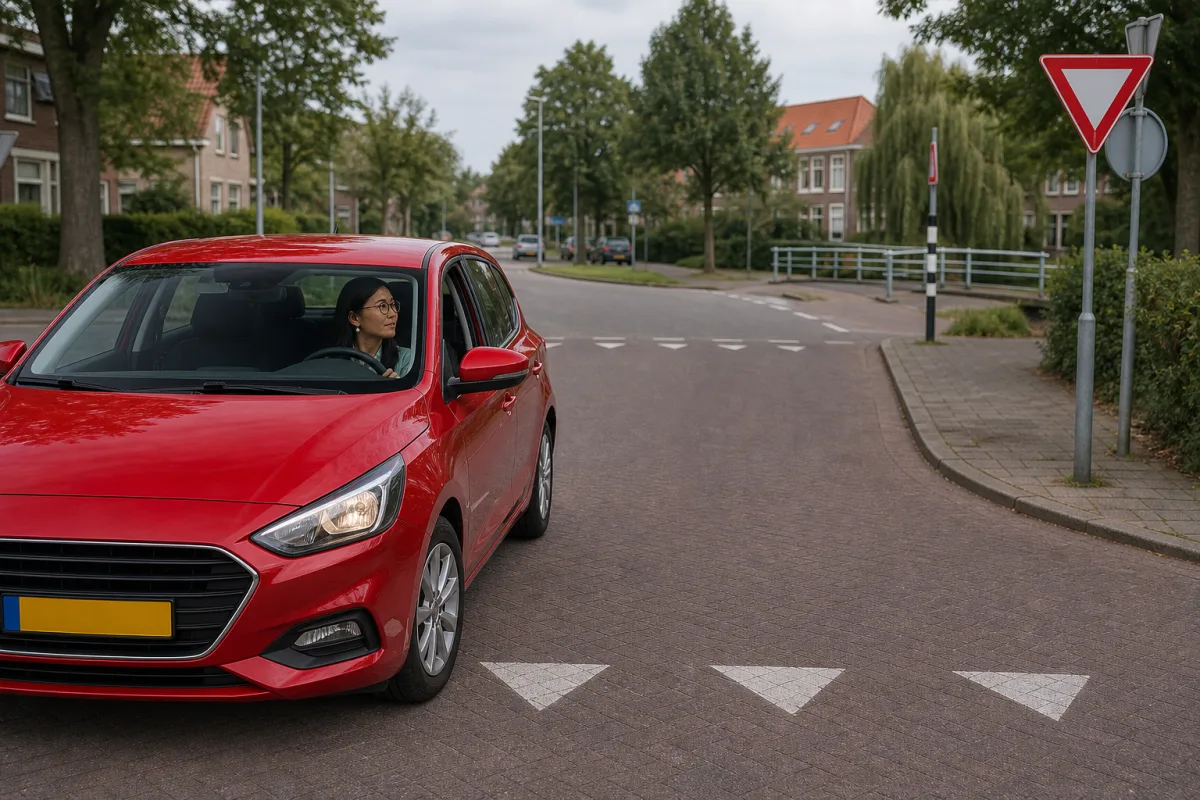
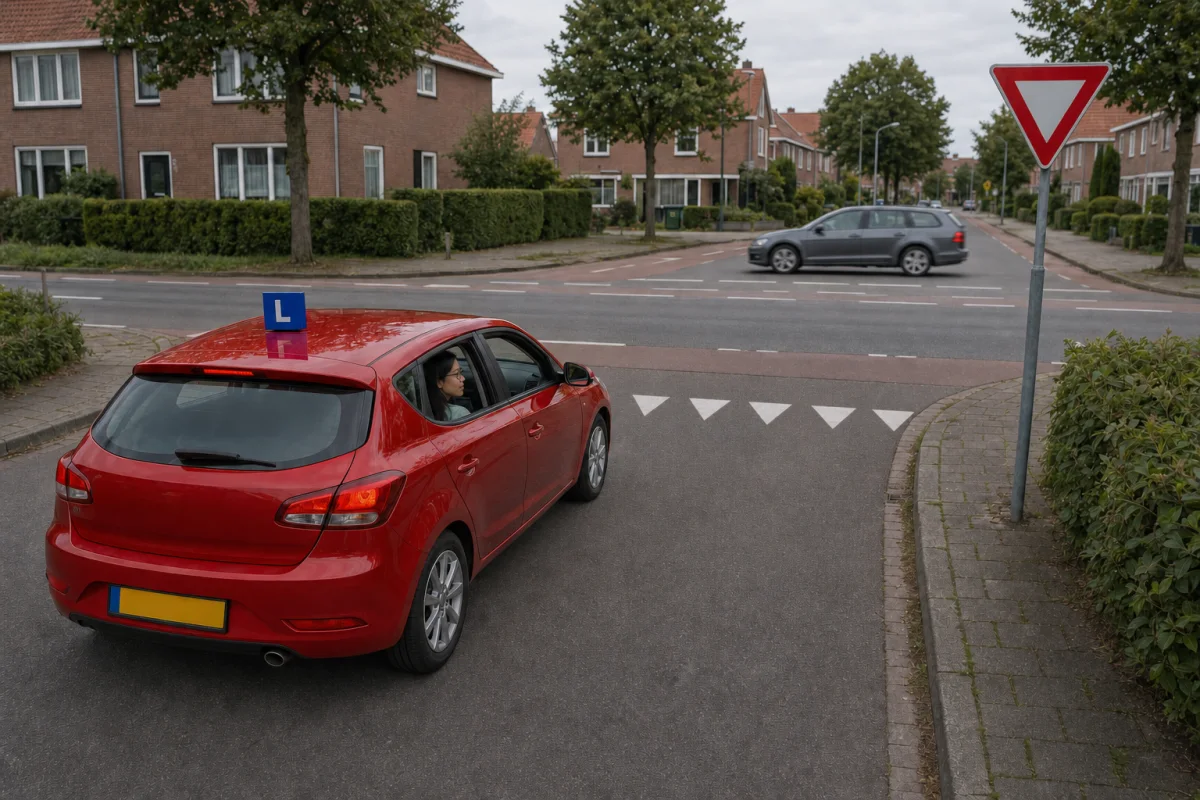
Corrigeer haaientanden bij voorrang

diff --git a/photos/prompt-map.js b/photos/prompt-map.js
@@ -32,7 +32,7 @@ const MANIFEST = [
   { key:'module-2_s21', title:'Ruimtekussen', prompt:'A car driving with generous open space all around it on an open Dutch road.' },
   { key:'module-2_s22', title:'Tegemoetkomen', prompt:'Two cars passing each other on a narrow country road, one easing slightly onto the grass verge.' },
   { key:'module-2_s23', title:'Ingehaald worden', prompt:'A car being overtaken by another vehicle, seen from the overtaken driver perspective with mirror view.' },
-  { key:'module-2_s24', title:'Kruispunt', prompt:'A Dutch intersection with give-way shark-teeth markings, a car approaching and looking left and right.' },
+  { key:'module-2_s24', title:'Kruispunt', prompt:'Rear three-quarter view of Dandan in the red learner car, stopped completely before a transverse row of correctly oriented shark teeth whose points face the car, yielding beside a B6 sign to a grey car on the crossing priority road.' },
   { key:'module-2_s25', title:'Afslaan', prompt:'A car turning right at a junction with its indicator on, cyclists nearby on a Dutch street.' },
   { key:'module-2_s26', title:'Hellingproef', prompt:'A car performing a hill start on an inclined road without rolling back.' },
   { key:'module-2_s27a', title:'Achteruit rechte lijn', prompt:'A car reversing in a straight line along the right side of a quiet street, driver looking back.' },
